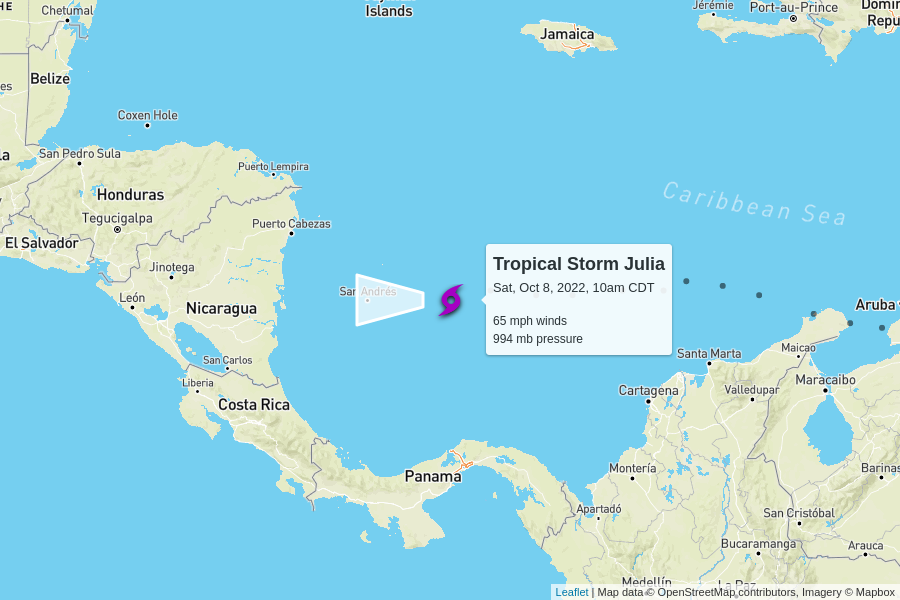
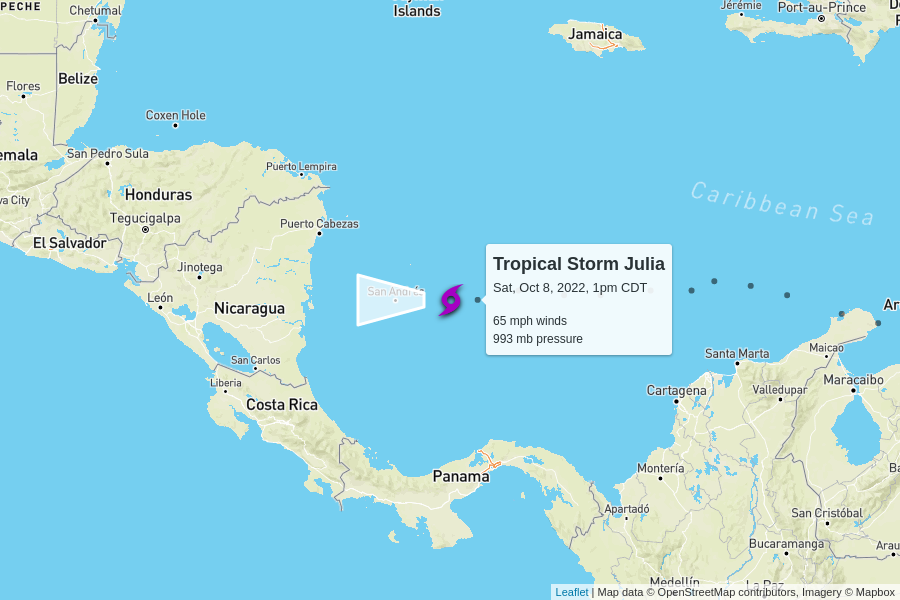
automatic update

diff --git a/docs/index.html b/docs/index.html
@@ -100,7 +100,7 @@
         <td colspan="6" class="storm category-0" >
           <h2>
             Tropical Storm Julia
-            <p class="updated">last updated <span data-time>2022-10-08T15:00:00.000Z</span></p>
+            <p class="updated">last updated <span data-time>2022-10-08T18:00:00.000Z</span></p>
           </h2>
         </td>
       </tr>
@@ -116,9 +116,9 @@
       <tr>
         <td class="spacer"></td>
         <td>65 mph</td>
-        <td>994 mb</td>
+        <td>993 mb</td>
         <td>
-          21 mph to the west
+          18 mph to the west
           <br/>
           <span style="display: inline-block; font-size: 1.5em; transform: rotate(270deg);">↑</span>
         </td>
